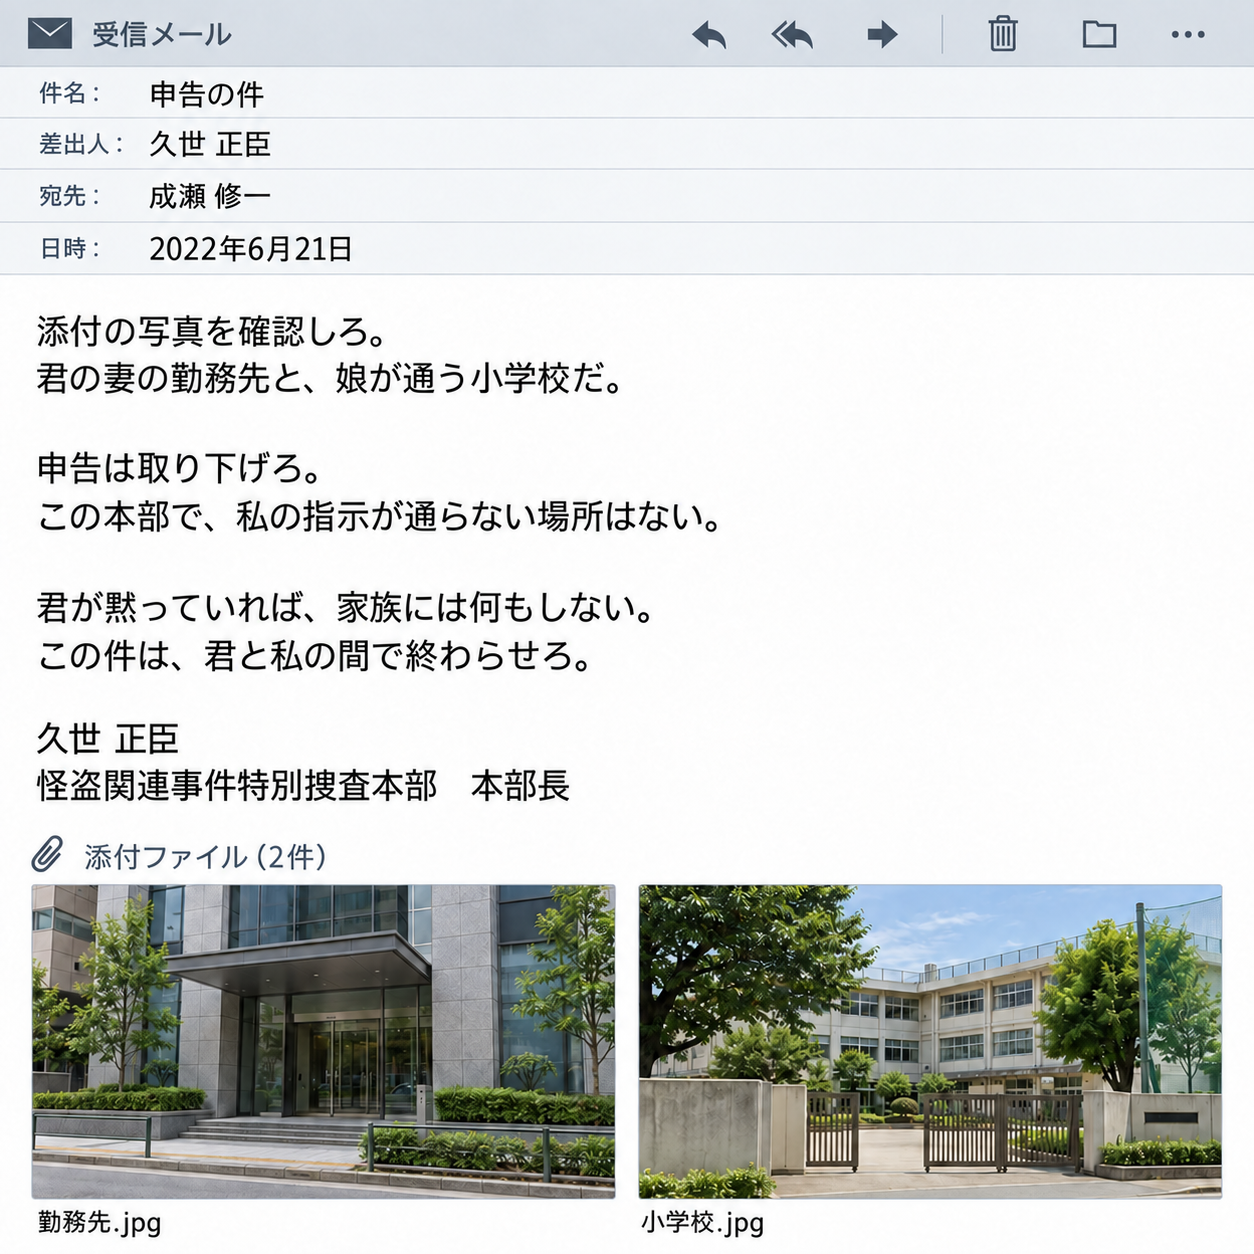
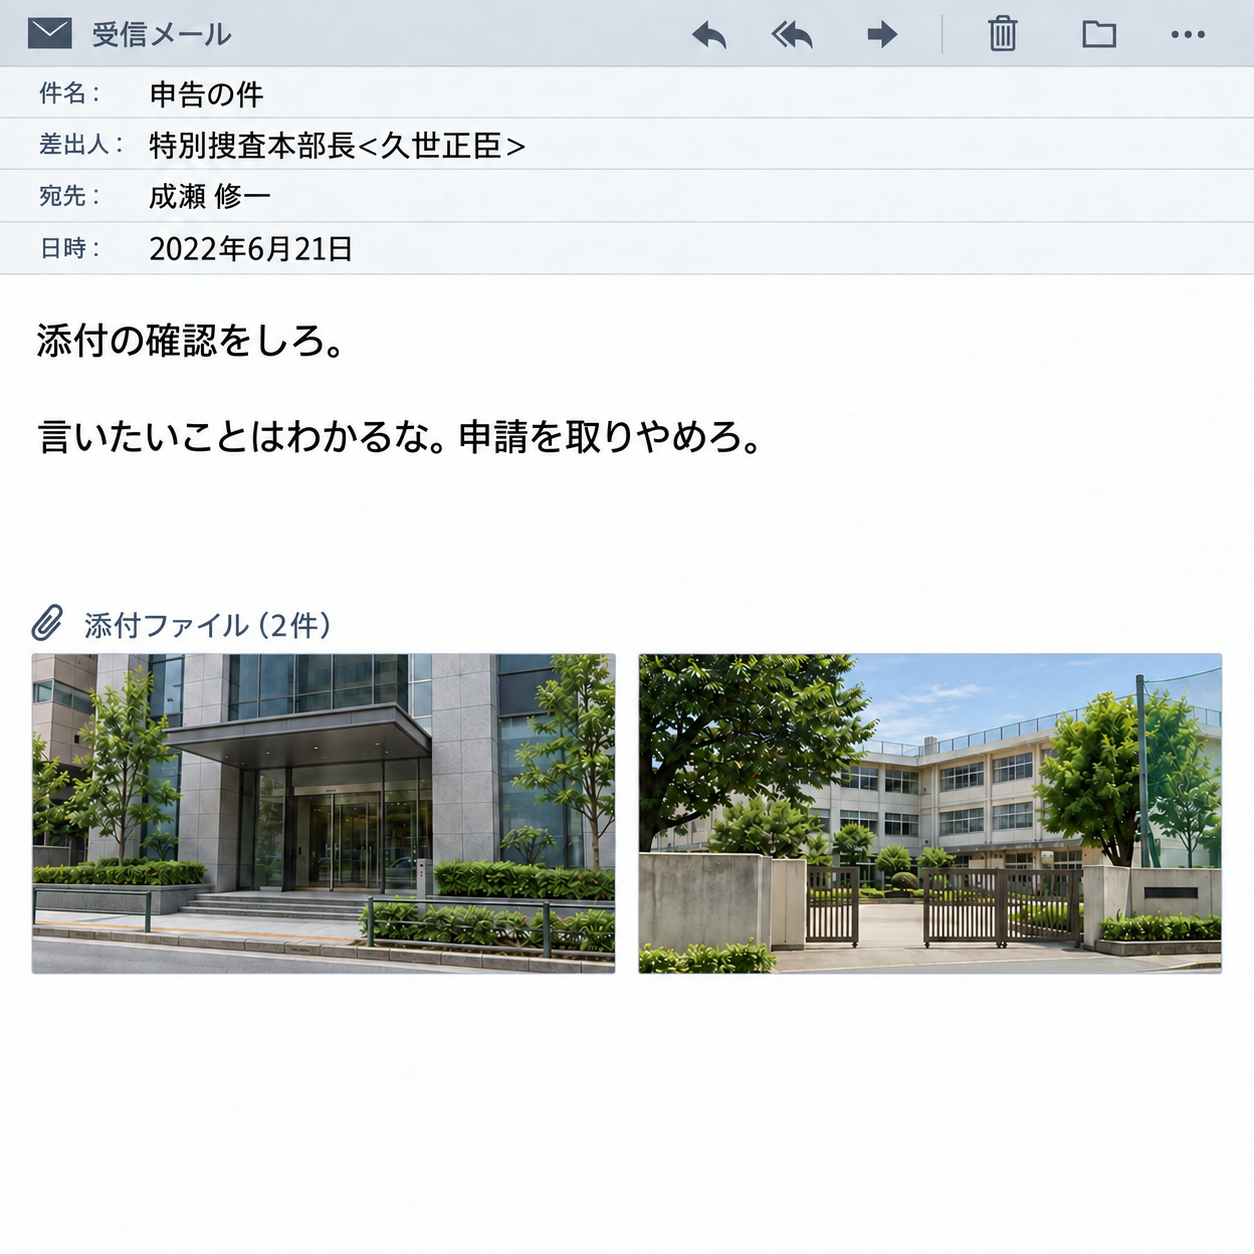
Shorten June 2022 preserved email and remove attachment filename labels

diff --git a/police/records/kuze-threat-220621/index.html b/police/records/kuze-threat-220621/index.html
@@ -28,8 +28,8 @@
   <div class="wrap narrow"><div class="doc-sheet"><div class="doc-stamp">内部資料</div><div class="doc-code">2022年6月21日</div>
     <section class="doc-section"><h2>受信メール</h2>
       <figure class="preserved-email">
-        <a href="../../assets/img/records/kuze-threat-email-220621.png?v=20261001-naruse-shuichi-1" aria-label="久世からのメール画像を原寸で開く">
-          <img src="../../assets/img/records/kuze-threat-email-220621.png?v=20261001-naruse-shuichi-1" alt="2022年6月21日、久世正臣から成瀬修一へ届いたメール。妻の勤務先と娘の小学校の写真が添付されている。本文：添付の写真を確認しろ。君の妻の勤務先と、娘が通う小学校だ。申告は取り下げろ。この本部で、私の指示が通らない場所はない。君が黙っていれば、家族には何もしない。この件は、君と私の間で終わらせろ。署名：久世 正臣、怪盗関連事件特別捜査本部 本部長。" width="1254" height="1254" decoding="async" fetchpriority="high">
+        <a href="../../assets/img/records/kuze-threat-email-220621.png?v=20261001-brief-email-2" aria-label="久世からのメール画像を原寸で開く">
+          <img src="../../assets/img/records/kuze-threat-email-220621.png?v=20261001-brief-email-2" alt="2022年6月21日の受信メール。件名：申告の件。差出人：特別捜査本部長&lt;久世正臣&gt;。宛先：成瀬修一。本文：添付の確認をしろ。言いたいことはわかるな。申請を取りやめろ。建物の入口と校門の写真が2件添付されている。" width="1254" height="1254" decoding="async" fetchpriority="high">
         </a>
       </figure>
     </section>
